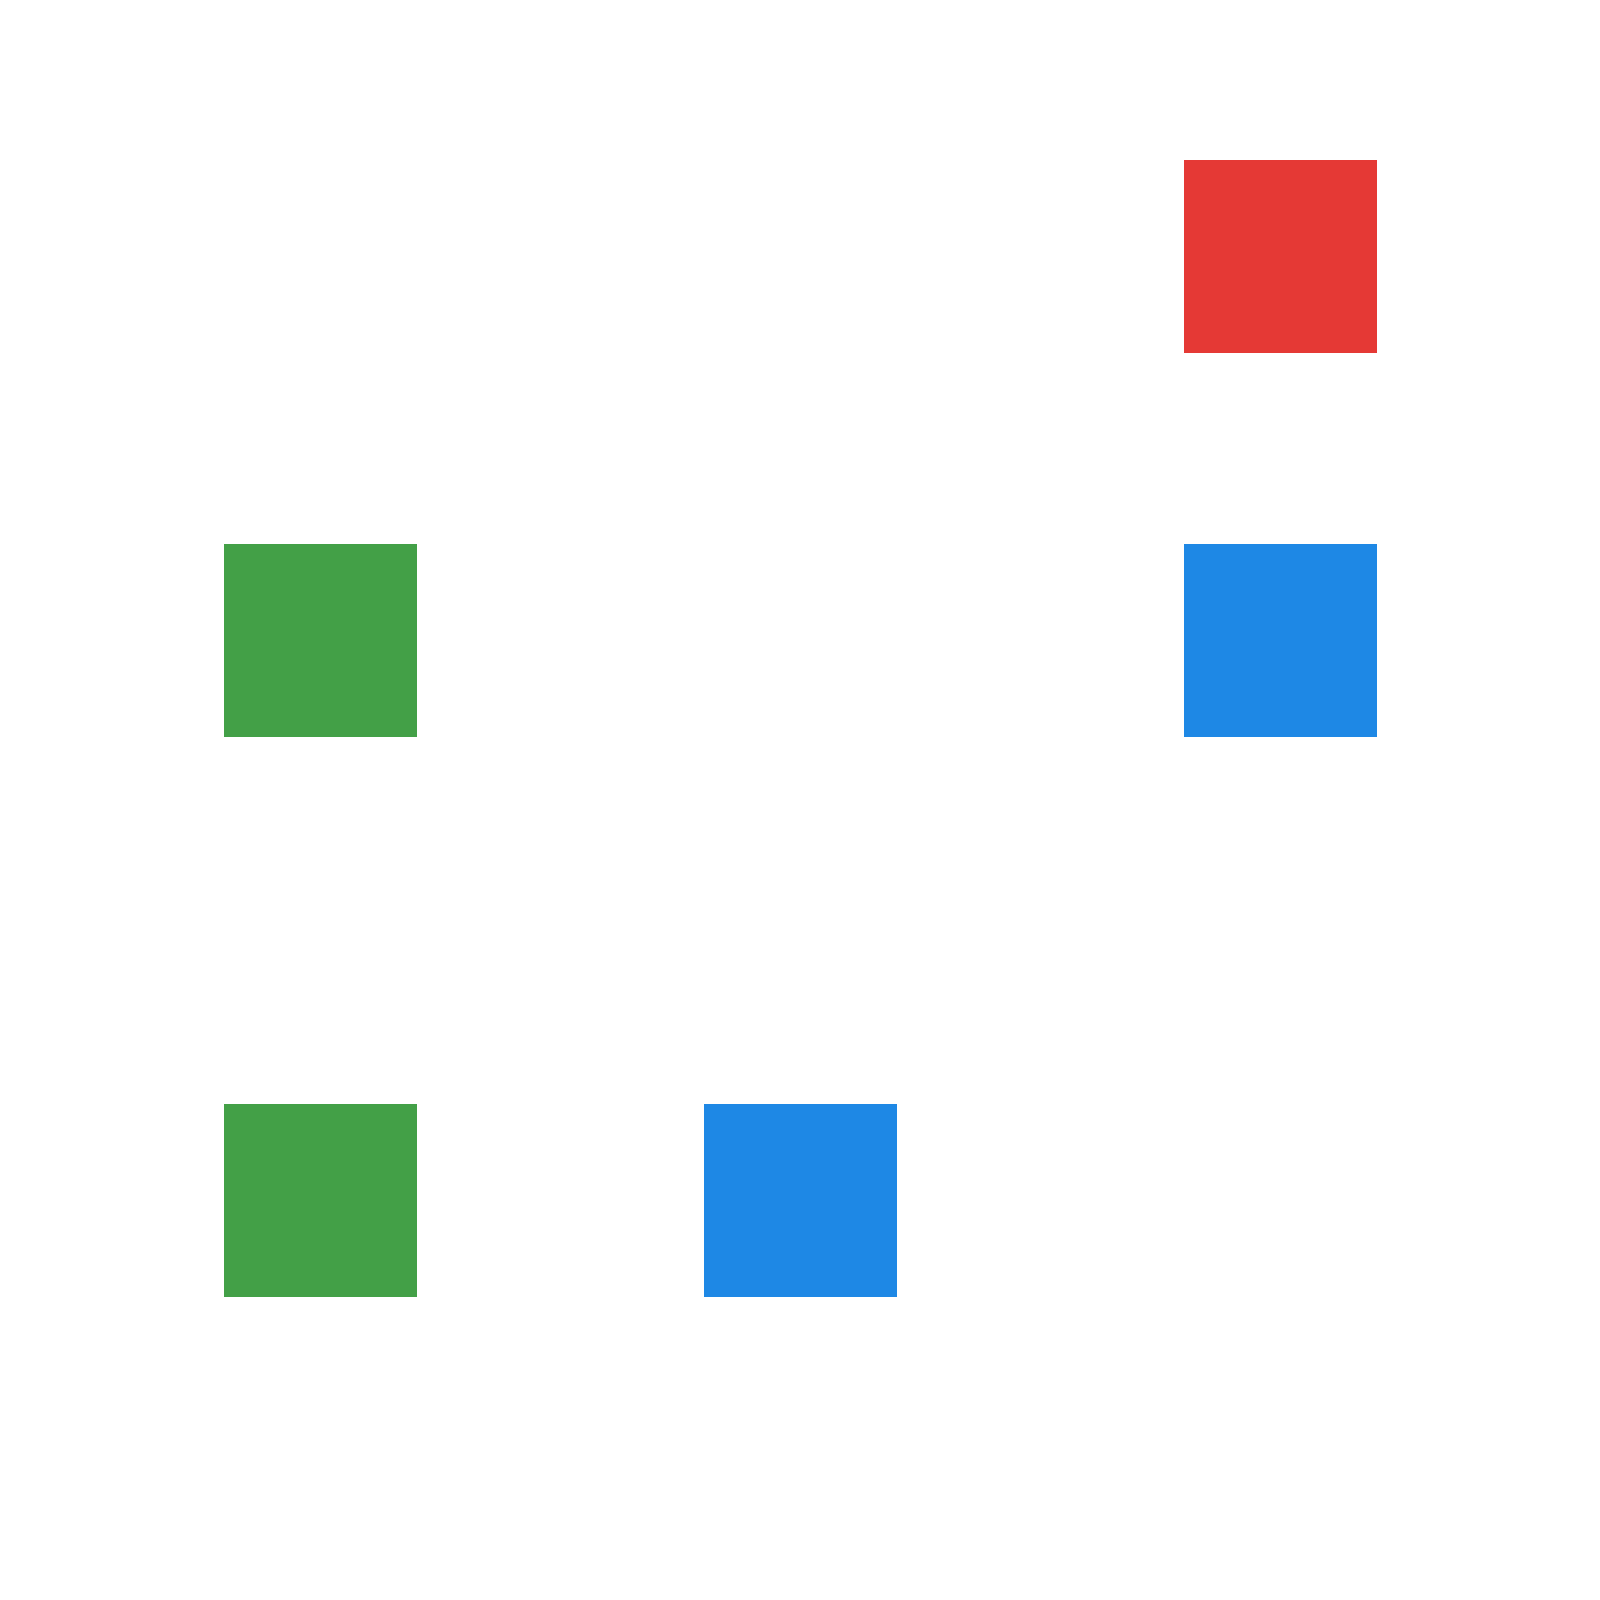
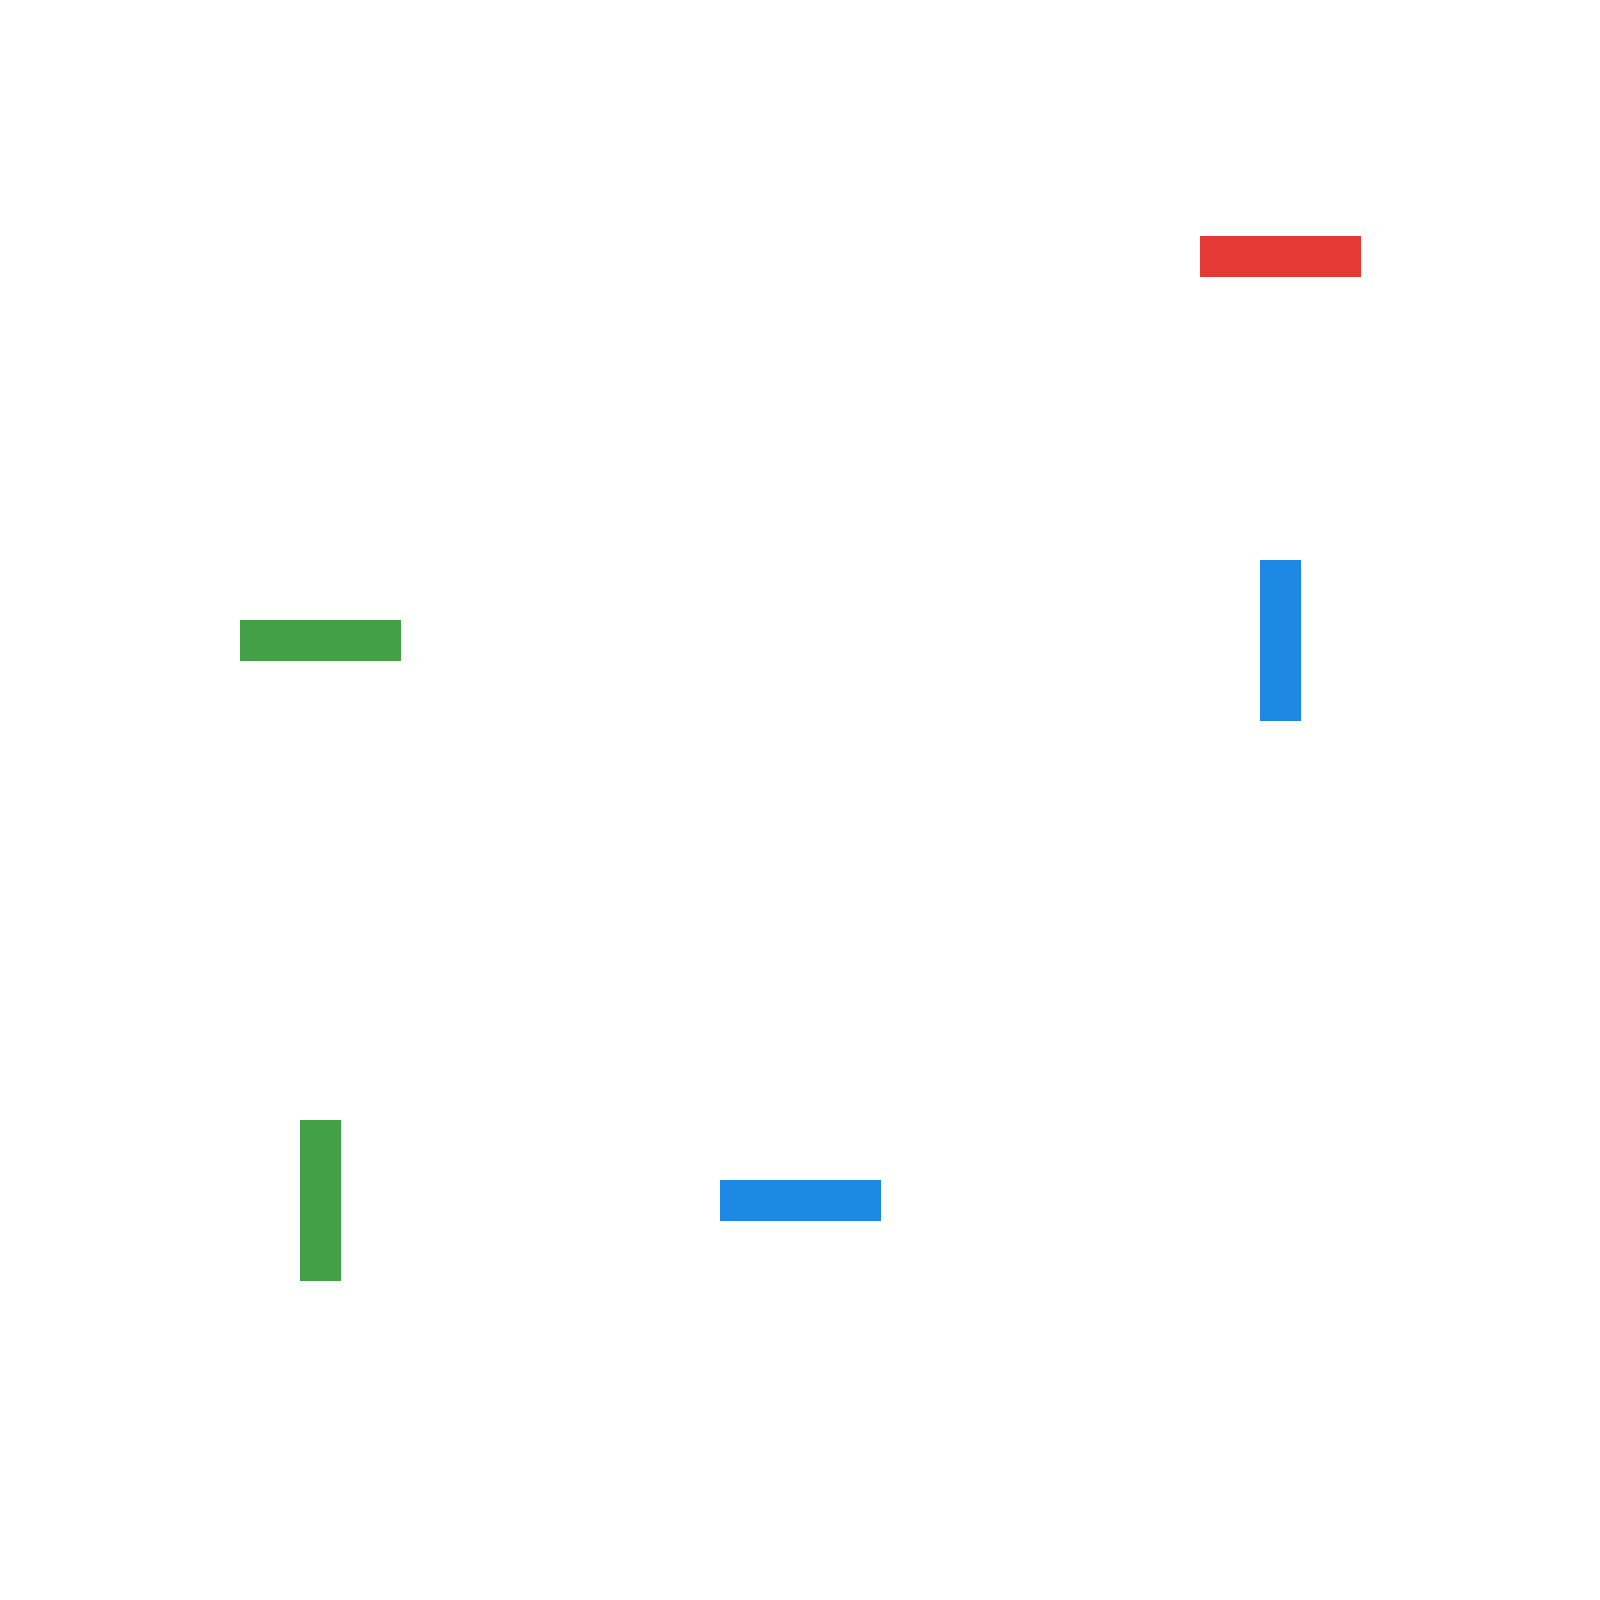
Update: Color Maze World

diff --git a/generate_world.py b/generate_world.py
@@ -94,18 +94,22 @@ def create_color_stop(draw, width, height):
     )
 
 
+
 def create_color_maze(draw, width, height):
     """
-    Draw a square color-command maze.
+    Draw a color-command maze with rectangular markers.
 
     The robot starts near the bottom center, facing upward.
 
     Navigation sequence:
-        Blue  -> Turn left
-        Green -> Turn right
-        Green -> Turn right
-        Blue  -> Turn left
-        Red   -> Stop
+        Blue  -> Turn left.
+        Green -> Turn right.
+        Green -> Turn right.
+        Blue  -> Turn left.
+        Red   -> Stop.
+
+    The markers are narrow in the direction of travel
+    and wider across the robot's path.
 
     Args:
         draw: Pillow drawing object.
@@ -118,29 +122,38 @@ def create_color_maze(draw, width, height):
         "red": "#E53935",
     }
 
-    # Marker centers as fractions of image dimensions.
+    # Marker positions from the original Color Maze.
+    # Each tuple contains (x, y, color, incoming direction).
     markers = [
-        (0.50, 0.75, "blue"),   # First turn: left.
-        (0.20, 0.75, "green"),  # Second turn: right.
-        (0.20, 0.40, "green"),  # Third turn: right.
-        (0.80, 0.40, "blue"),   # Fourth turn: left.
-        (0.80, 0.16, "red"),    # Finish.
+        (0.50, 0.75, "blue", "vertical"),
+        (0.20, 0.75, "green", "horizontal"),
+        (0.20, 0.40, "green", "vertical"),
+        (0.80, 0.40, "blue", "horizontal"),
+        (0.80, 0.16, "red", "vertical"),
     ]
 
-    # Large markers make color detection more reliable.
-    marker_size = min(width, height) * 0.12
-    half_size = marker_size / 2
+    # Marker dimensions relative to the image size.
+    marker_width = min(width, height) * 0.10
+    marker_thickness = min(width, height) * 0.025
 
-    for x_fraction, y_fraction, color in markers:
+    for x_fraction, y_fraction, color, direction in markers:
         center_x = width * x_fraction
         center_y = height * y_fraction
 
+        # Orient each marker across the incoming robot path.
+        if direction == "vertical":
+            half_width = marker_width / 2
+            half_height = marker_thickness / 2
+        else:
+            half_width = marker_thickness / 2
+            half_height = marker_width / 2
+
         draw.rectangle(
             (
-                round(center_x - half_size),
-                round(center_y - half_size),
-                round(center_x + half_size),
-                round(center_y + half_size),
+                round(center_x - half_width),
+                round(center_y - half_height),
+                round(center_x + half_width),
+                round(center_y + half_height),
             ),
             fill=colors[color],
         )
